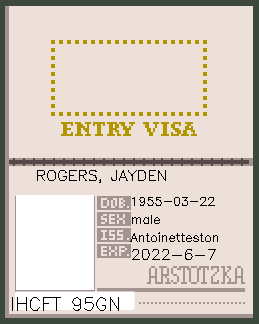
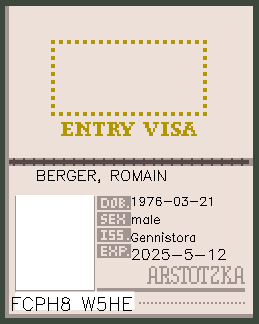
added more assets (passports) and start working on first day

diff --git a/app.py b/app.py
@@ -7,8 +7,11 @@ from helpers import passport_img
 
 # pygame.init()
 
+COUNTRIES = ["antegria", "arstotzka", "obristan", "impor", "kolechia", "republia", "united-federation"]
+
 pygame.font.init()
 pygame.mixer.init()
+people_count = 0
 
 win = pygame.display.set_mode((1000, 700))
 title = pygame.image.load("images/title.png")
@@ -21,6 +24,7 @@ small_person = pygame.transform.scale(small_person, (25,60))
 pygame.display.set_caption("Papers Please Remake")
 font = pygame.font.SysFont('Tahoma', 60, True, False)
 font_a = pygame.font.Font("fonts/a.ttf", 10)
+game_map = pygame.image.load("images/map.jpeg")
 #text = font.render('Bauhaus 93 | Size: 36 | Colour: White | Background: Blue', True, (255, 255, 255), (0, 0, 255))
 pygame.mixer.music.load("musics/song.mp3")
 pygame.mixer.music.play(-1)
@@ -94,6 +98,7 @@ iterator = 0
 pass_button = Button(900, 450, 50, 50, (0, 255, 0))
 denied_button = Button(900, 500, 50, 50, (255, 0, 0))
 
+correct = None
 
 while play:
     for event in pygame.event.get():
@@ -104,13 +109,20 @@ while play:
             print(colored(pygame.mouse.get_pos(), "red"))
             avail = False
             iterator = 0
+            people_count += 1
         if event.type == pygame.MOUSEBUTTONDOWN:
             if pass_button.is_click(pos):
                 # do once approve button is clicked
+                if correct != True:
+                    print("you failed")
                 avail = True
+                iterator = 0
             elif denied_button.is_click(pos):
                 # do once denied button is clicked
+                if correct != False:
+                    print("you failed")
                 avail = True
+                iterator = 0
 
     win.blit(workspace, (0,0))
     # win.blit(small_person, (0, 30))
@@ -128,21 +140,55 @@ while play:
         win.blit(small_person, (0 + i*20 + int(random_num(1, 2, 1)) / 2, 140 + int(random_num(1, 2, 1)) / 2))
 
     if not avail:
-        text = font.render("NEXT!", 1, (100, 100, 100))
-        win.blit(text, (450, 600))
-        if iterator == 0:
-            passport_img()
-            global passport
-            passport = pygame.image.load("output.png")
-        merged = passport.copy()
-        merged.blit(a, (15, 190))
-        win.blit(merged, (400, 250))
-        win.blit(a, (250, 250))
-        iterator += 1
-        pygame.display.update()
+
+        if day_count == 1:
+
+            if people_count == 4 or people_count > 5:
+                if iterator == 0:
+                    country = random.choice(COUNTRIES)
+                    if country != "arstotzka":
+                        correct = False
+                    else:
+                        correct = True
+                    passport_img(country)
+                    passport = pygame.image.load("output.png")
+
+            if people_count == 1:
+                if iterator == 0:
+                    correct = True
+                    passport_img("arstotzka")
+                    passport = pygame.image.load("output.png")
+
+            if people_count == 2:
+                if iterator == 0:
+                    correct = False
+                    passport_img("impor")
+                    passport = pygame.image.load("output.png")
+
+            if people_count == 3:
+                if iterator == 0:
+                    correct = False
+                    passport_img("republia")
+                    passport = pygame.image.load("output.png")
+
+            if people_count == 5:
+                if iterator == 0:
+                    correct = False
+                    text = font_a.render("Open this gate is stupid", 1, (100, 100, 100))
+                    win.blit(text, (250, 250))
+                    #passport_img("kolechia")
+                    #passport = pygame.image.load("output.png")
+            if people_count != 5:
+                merged = passport.copy()
+                merged.blit(a, (15, 190))
+                win.blit(merged, (400, 250))
+                win.blit(a, (250, 250))
+                iterator += 1
+            pygame.display.update()
 
     pass_button.draw("VALID", font_type="font_a")
     denied_button.draw("DENIED", font_type="font_a")
+    # win.blit(game_map, (0, 0))
     pygame.display.update()
 
 pygame.quit()

diff --git a/helpers.py b/helpers.py
@@ -7,18 +7,48 @@ from datetime import date
 
 import string
 
-citys = [
-    "Antoinetteston",
-    "Letaville",
-    "Juanaville",
-    "Ebonyston",
-    "Araville",
-    "Callieville",
-    "Chelseaston",
-    "Maryston",
-    "Kodyville",
-    "Maryjaneville",
-]
+citys = {
+    "arstotzka": [
+        "Altan",
+        "Vescillo",
+        "Burnton",
+        "Octovalis",
+        "Gennistora",
+        "Lendiforma",
+        "Wozenfield",
+        "Fardesto"
+    ],
+    "antegria": [
+        "St. Marmero",
+        "Glorian",
+        "Outer Grouse"
+    ],
+    "impor": [
+        "Enkyo",
+        "Haihan",
+        "Tsunkeido"
+    ],
+    "kolechia": [
+        "Yurko City",
+        "Vedor",
+        "West Grestin"
+    ],
+    "obristan": [
+        "Skal",
+        "Lorndaz",
+        "Mergerous"
+    ],
+    "republia": [
+        "True Glorian",
+        "Lesrenadi",
+        "Bostan",
+    ],
+    "united-federation": [
+        "Great Rapid",
+        "Shingleton",
+        "Korista City"
+    ]
+}
 
 def random_num(start, end):
     nums = []
@@ -40,10 +70,10 @@ def random_info():
     name = f'{info["results"][0]["name"]["last"]}, {info["results"][0]["name"]["first"]}'.upper()
     dob = info["results"][0]["dob"]["date"].split("T")[0]
     sex = info["results"][0]["gender"]
-    iss = random.choice(citys)
+    # iss = random.choice(citys)
     exp = f"{random_num(int(date.today().year)-3, int(date.today().year)+7)}-{random_num(1, 12)}-{random_num(1, 28)}"
     # exp = random.choice([i + int(dob.split("-")[0]) for i in range(100)])
-    return name, dob, sex, iss, exp
+    return name, dob, sex, exp
 
 def random_str(digits=10):
     ans = ""
@@ -54,21 +84,20 @@ def random_str(digits=10):
             ans += random.choice(string.ascii_uppercase + string.digits)
     return ans
 
-def passport_img():
-    name, dob, sex, iss, exp = random_info()
+def passport_img(country):
+    name, dob, sex, exp = random_info()
 
-    image = cv2.imread('images/passports/arstotzka.png', cv2.IMREAD_UNCHANGED)
+    image = cv2.imread(f'images/passports/{country}.png', cv2.IMREAD_UNCHANGED)
 
-    position = (10,310)
-
-    cv2.putText(
-        image, #numpy array on which text is written
-        random_str(), #text
-        position, #position at which writing has to start
-        cv2.FONT_HERSHEY_SIMPLEX, #font family
-        0.6, #font size
-        (0, 0, 0, 255), #font color
-        1) #font stroke
+    if country != "cobrastan":
+        cv2.putText(
+            image, #numpy array on which text is written
+            random_str(), #text
+            (10, 310), #position at which writing has to start
+            cv2.FONT_HERSHEY_SIMPLEX, #font family
+            0.6, #font size
+            (0, 0, 0, 255), #font color
+            1) #font stroke
 
     cv2.putText(
         image, #numpy array on which text is written
@@ -90,7 +119,7 @@ def passport_img():
 
     cv2.putText(
         image, #numpy array on which text is written
-        iss, #text
+        random.choice(citys[country]), #text
         (130, 241), #position at which writing has to start
         cv2.FONT_HERSHEY_SIMPLEX, #font family
         0.4, #font size
@@ -126,6 +155,6 @@ def passport_img():
 
     cv2.imwrite('output.png', image)
 
-"""if __name__ == "__main__":
+if __name__ == "__main__":
     data = random_info()
-    main(data[0], data[1], data[2], data[3], data[4])"""
+    passport_img("arstotzka")
